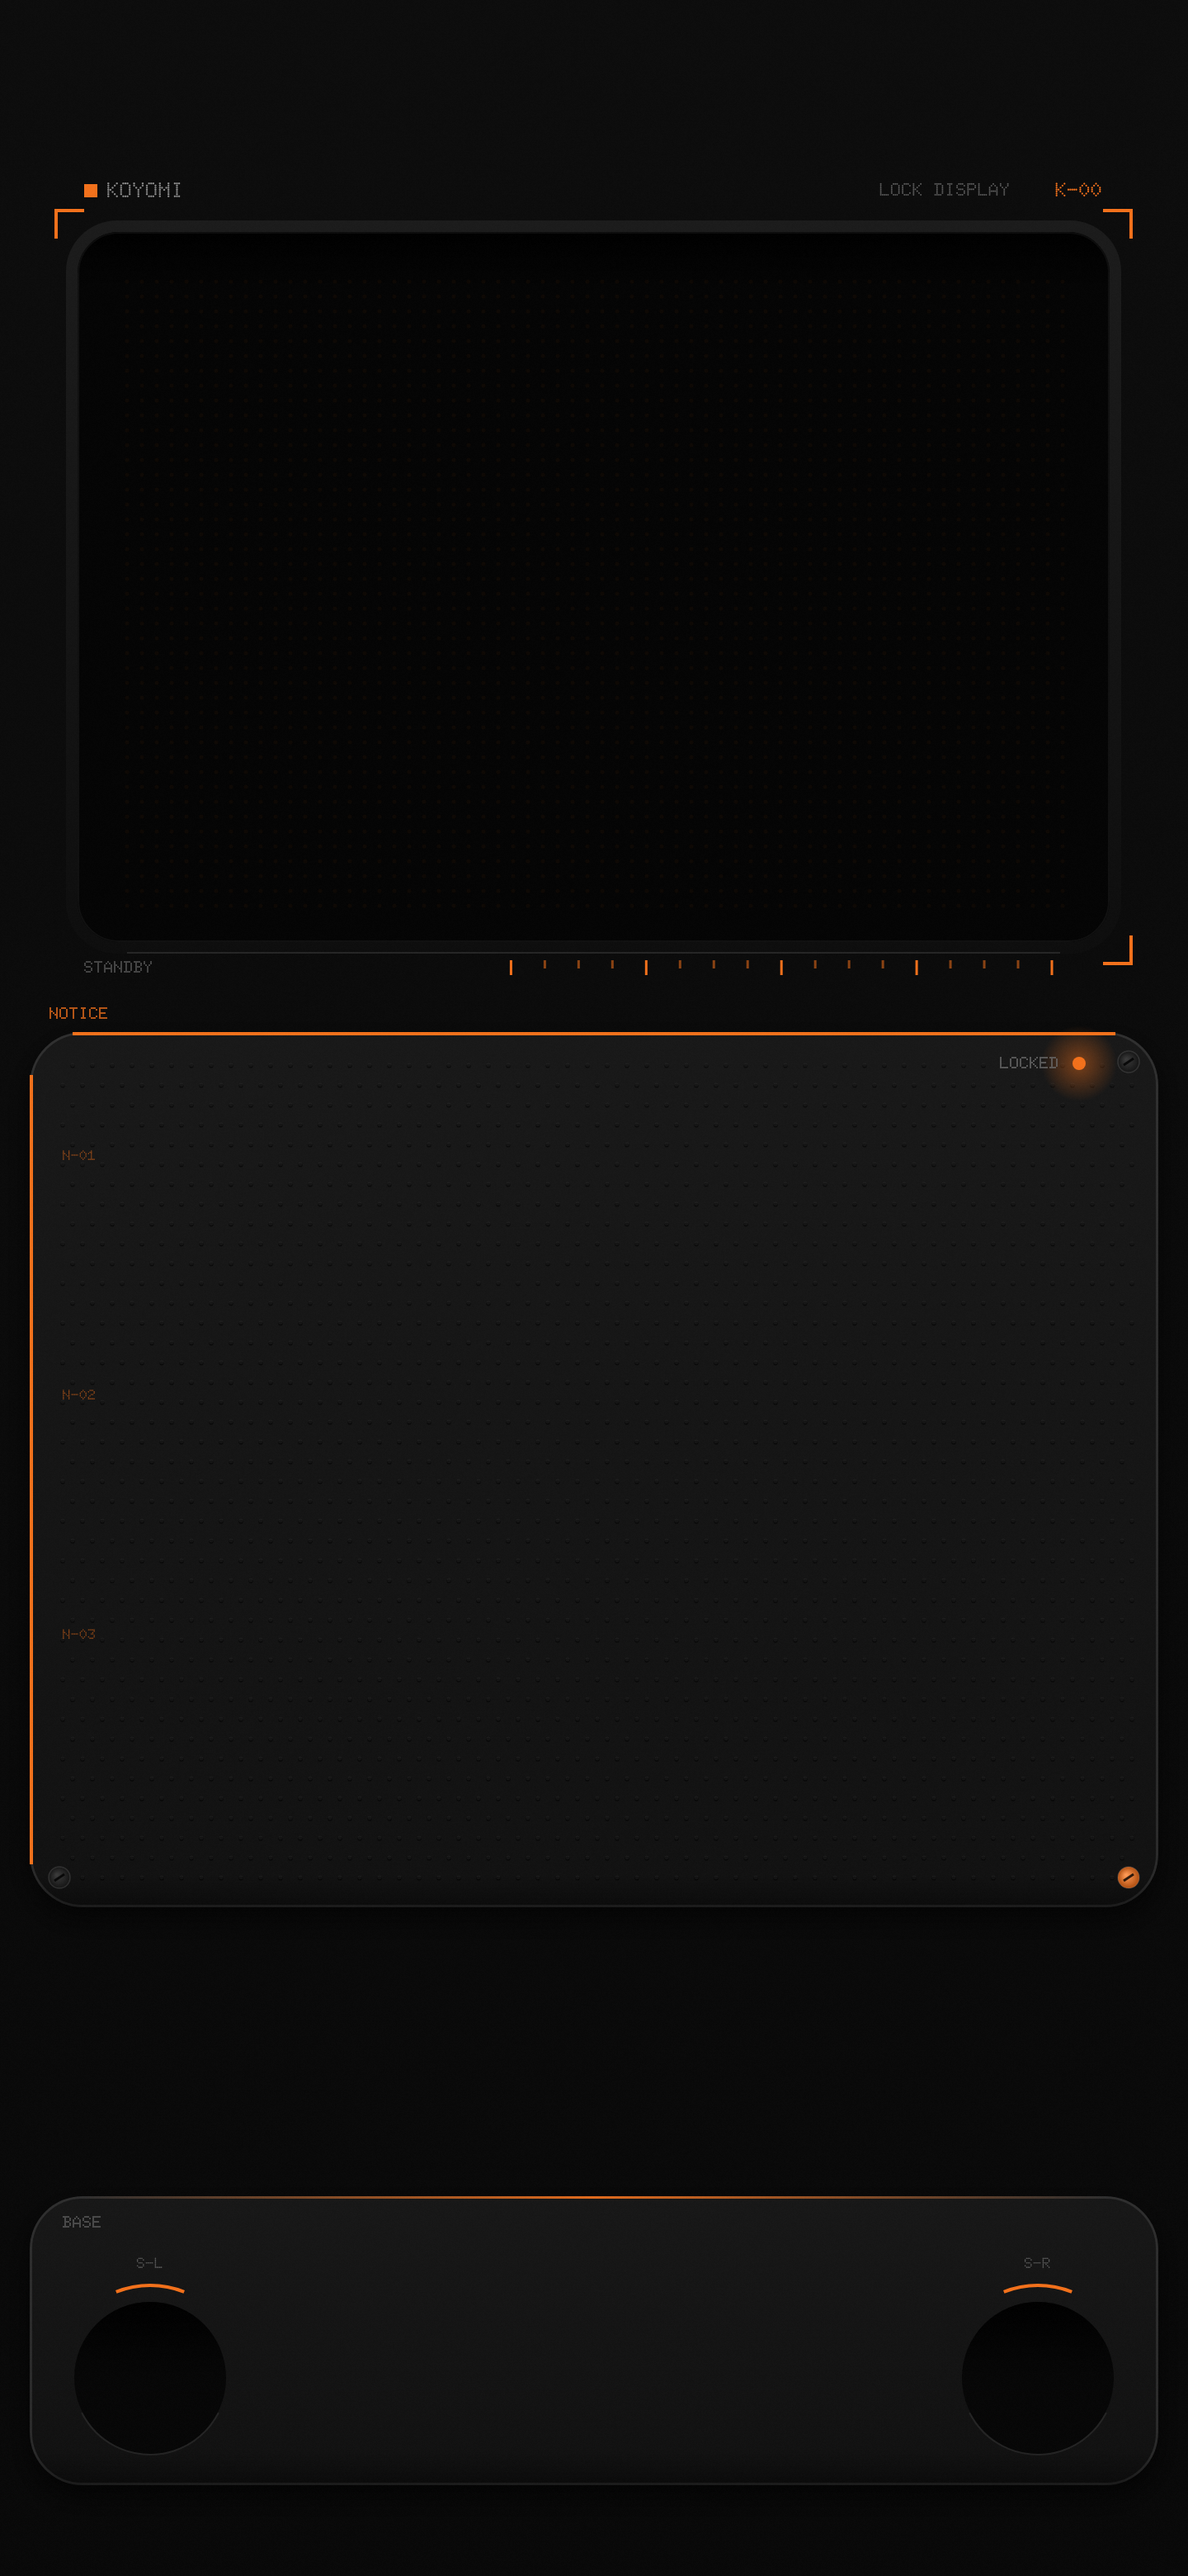
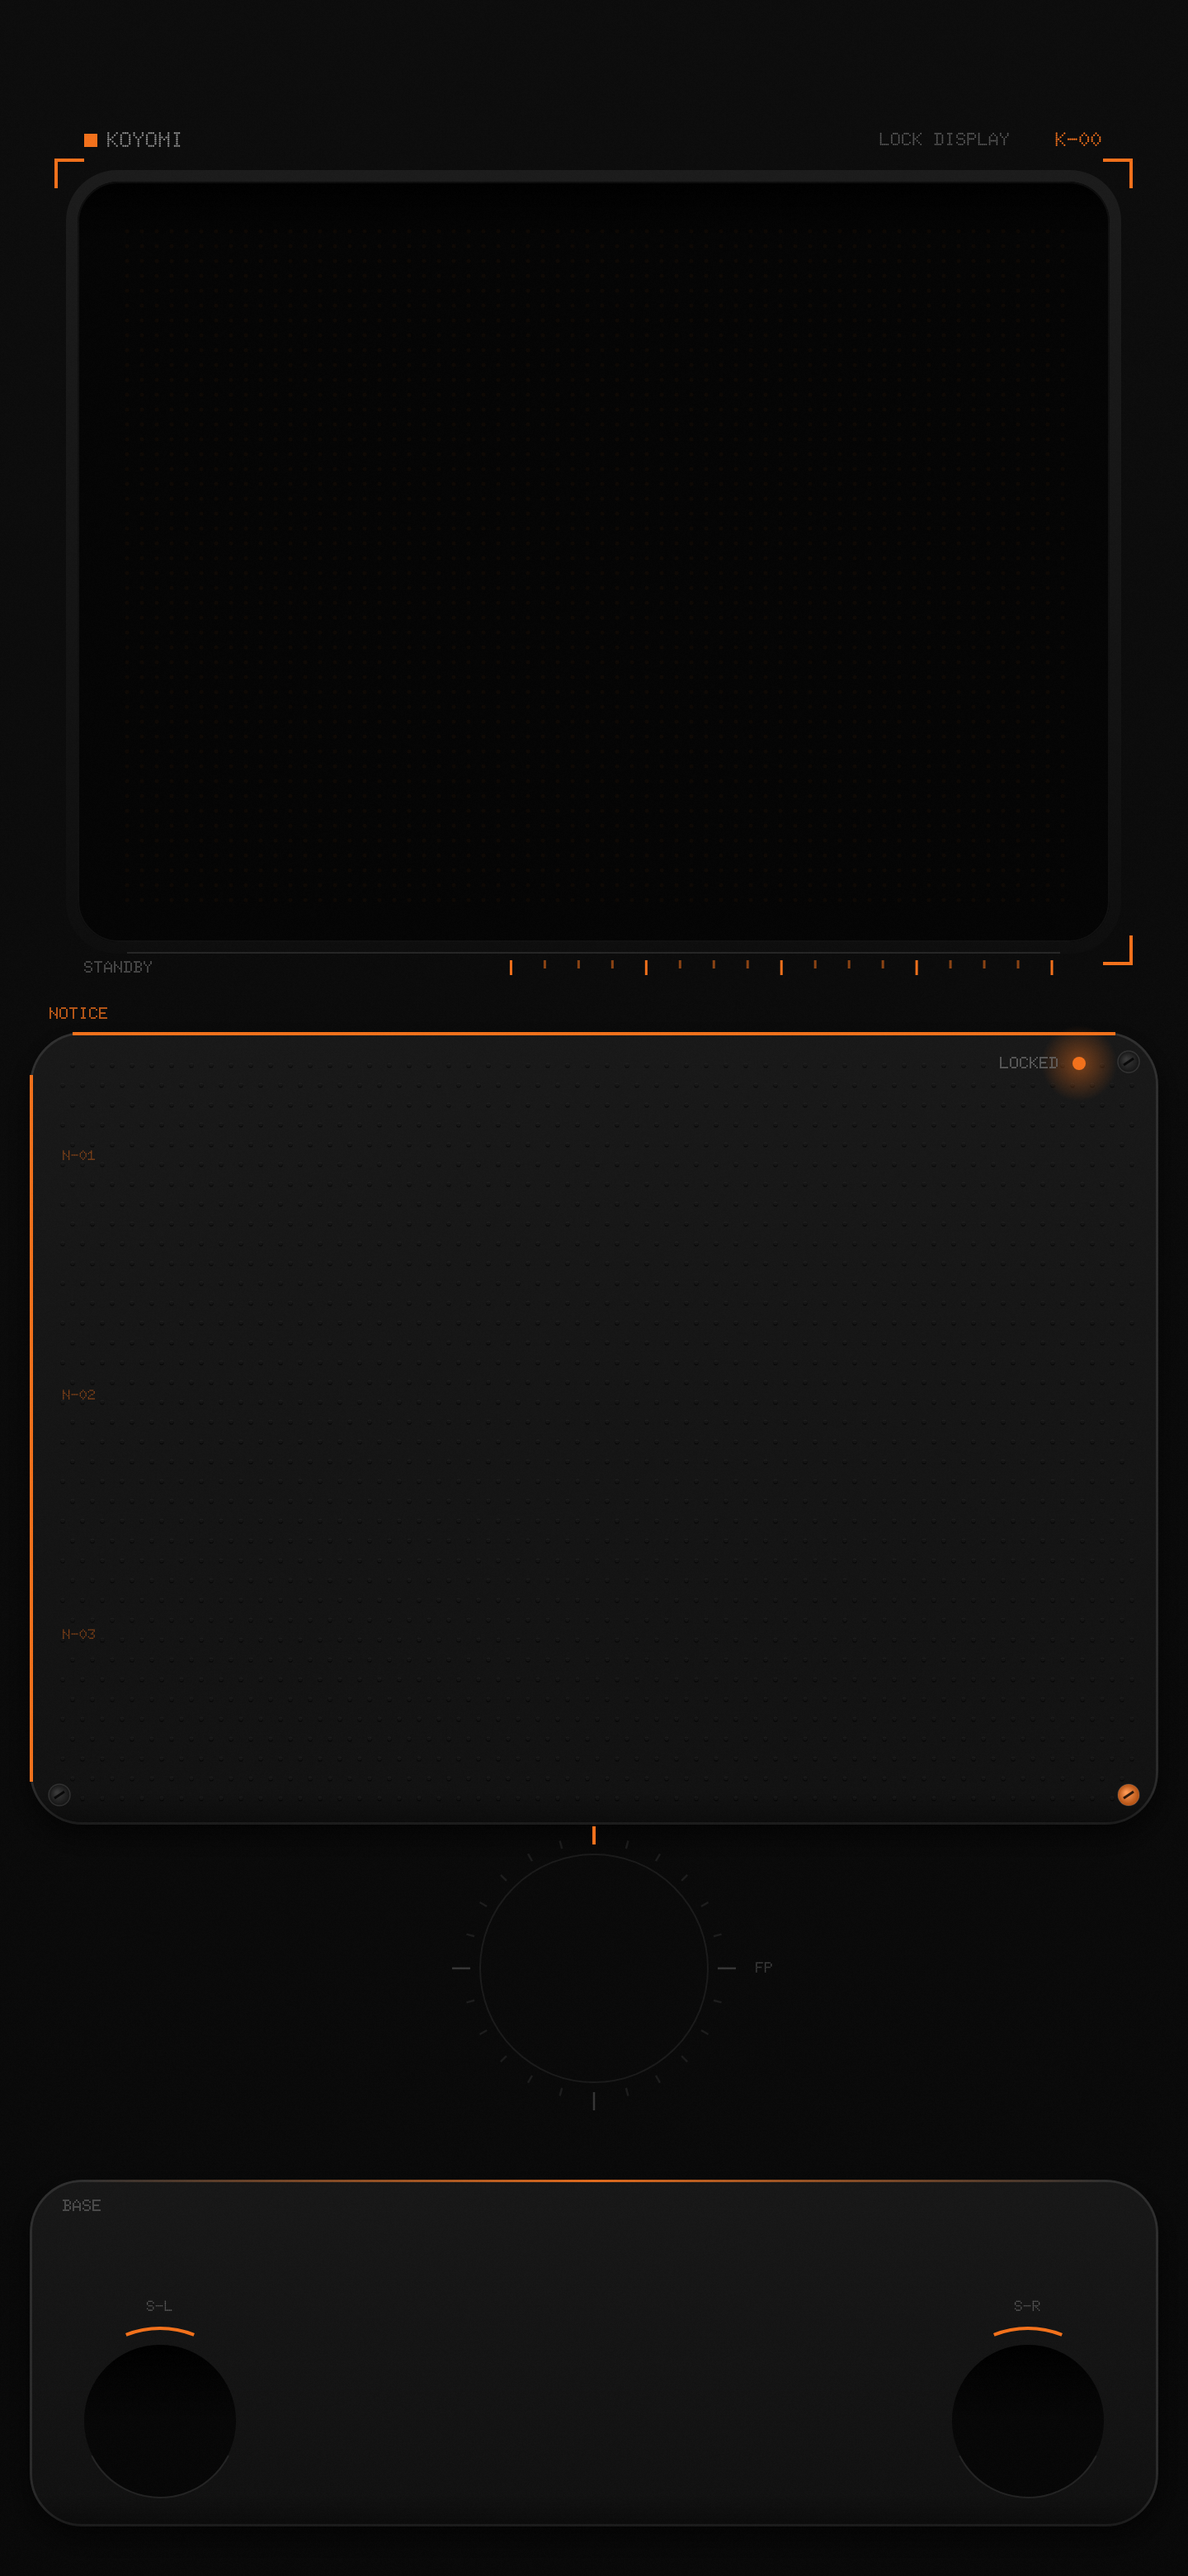
壁紙(ロック画面): 実機の配置に合わせて調整
- 時計窓を上に広げ、日付が縁に詰まらないように
- NOTICE パネルを短くし、指紋アイコンに掛からないように
- 指紋センサーの周りに目盛りリング(FP)を追加
- ショートカットのソケットを実機のアイコン位置に合わせ、ベースを拡張

Claude-Session: https://claude.ai/code/session_0179icErXwPdFdgioC6p5f9V

diff --git a/docs/wallpapers/README.md b/docs/wallpapers/README.md
@@ -12,8 +12,8 @@
 | `koyomi-monolith-sockets.png` | フォルダごとに台座+小さなオレンジのランプで強調 |
 | `koyomi-monolith-tool.png` | **道具感版**: ウィジェット位置に凹んだ「表示窓」、刻印ラベル(KOYOMI / K-01 / FOLDERS / DOCK)、ネジ、PWRランプ、オレンジの目盛り・コーナー・アルマイト風ネジ・ドックのライン。アプリ面にパンチングメタルの質感と位置合わせ「＋」、フォルダごとに F-01〜F-06 の刻印とオレンジのコーナー。ウィジェットは透明度**0%**で使う |
 | `preview-tool.png` | 道具感版のホーム画面イメージ |
-| `koyomi-monolith-lock.png` | **道具感版のロック画面**: ホームと同じ位置の凹んだ「LOCK DISPLAY」窓(時計用、K-00)、通知が載るパンチングメタルの NOTICE パネル(オレンジのL字・LOCKEDランプ)、左右下のショートカット用ソケット。中央下は指紋センサー/解除ヒントのため空けている |
-| `preview-lock.png` | ロック画面のイメージ(通知あり / なし) |
+| `koyomi-monolith-lock.png` | **道具感版のロック画面**: ホームと同じ位置の凹んだ「LOCK DISPLAY」窓(時計用、K-00)、通知が載るパンチングメタルの NOTICE パネル(オレンジのL字・LOCKEDランプ)、左右下のショートカット用ソケット、画面内指紋センサーを囲む目盛りリング(FP)。実機のロック画面(日付+2段時計)の位置に合わせて調整済み |
+| `preview-lock.png` | ロック画面のイメージ |
 | `preview.png` | ホーム画面のイメージ(左: 台座 / 右: 区画) |
 
 フォルダの位置は現在の配置(左列4つ+上段の左から3つ)に合わせています。
